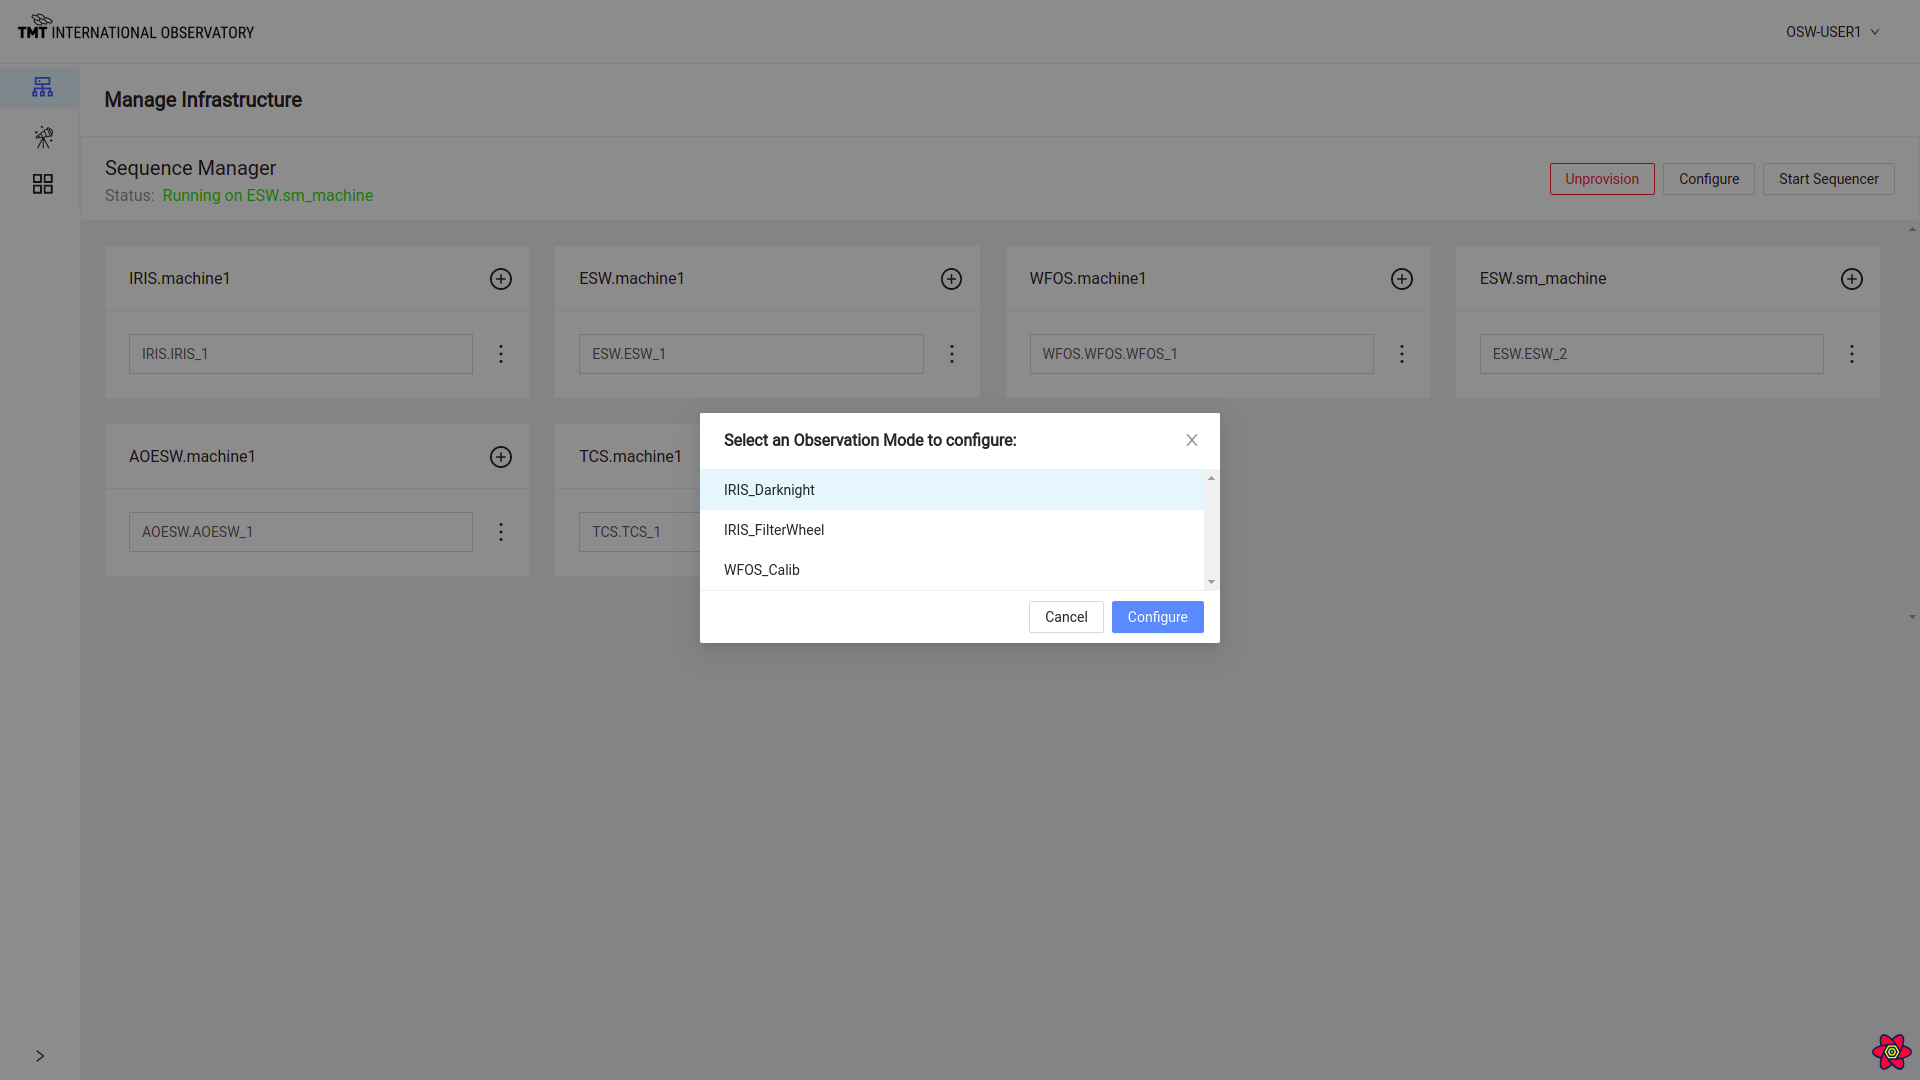
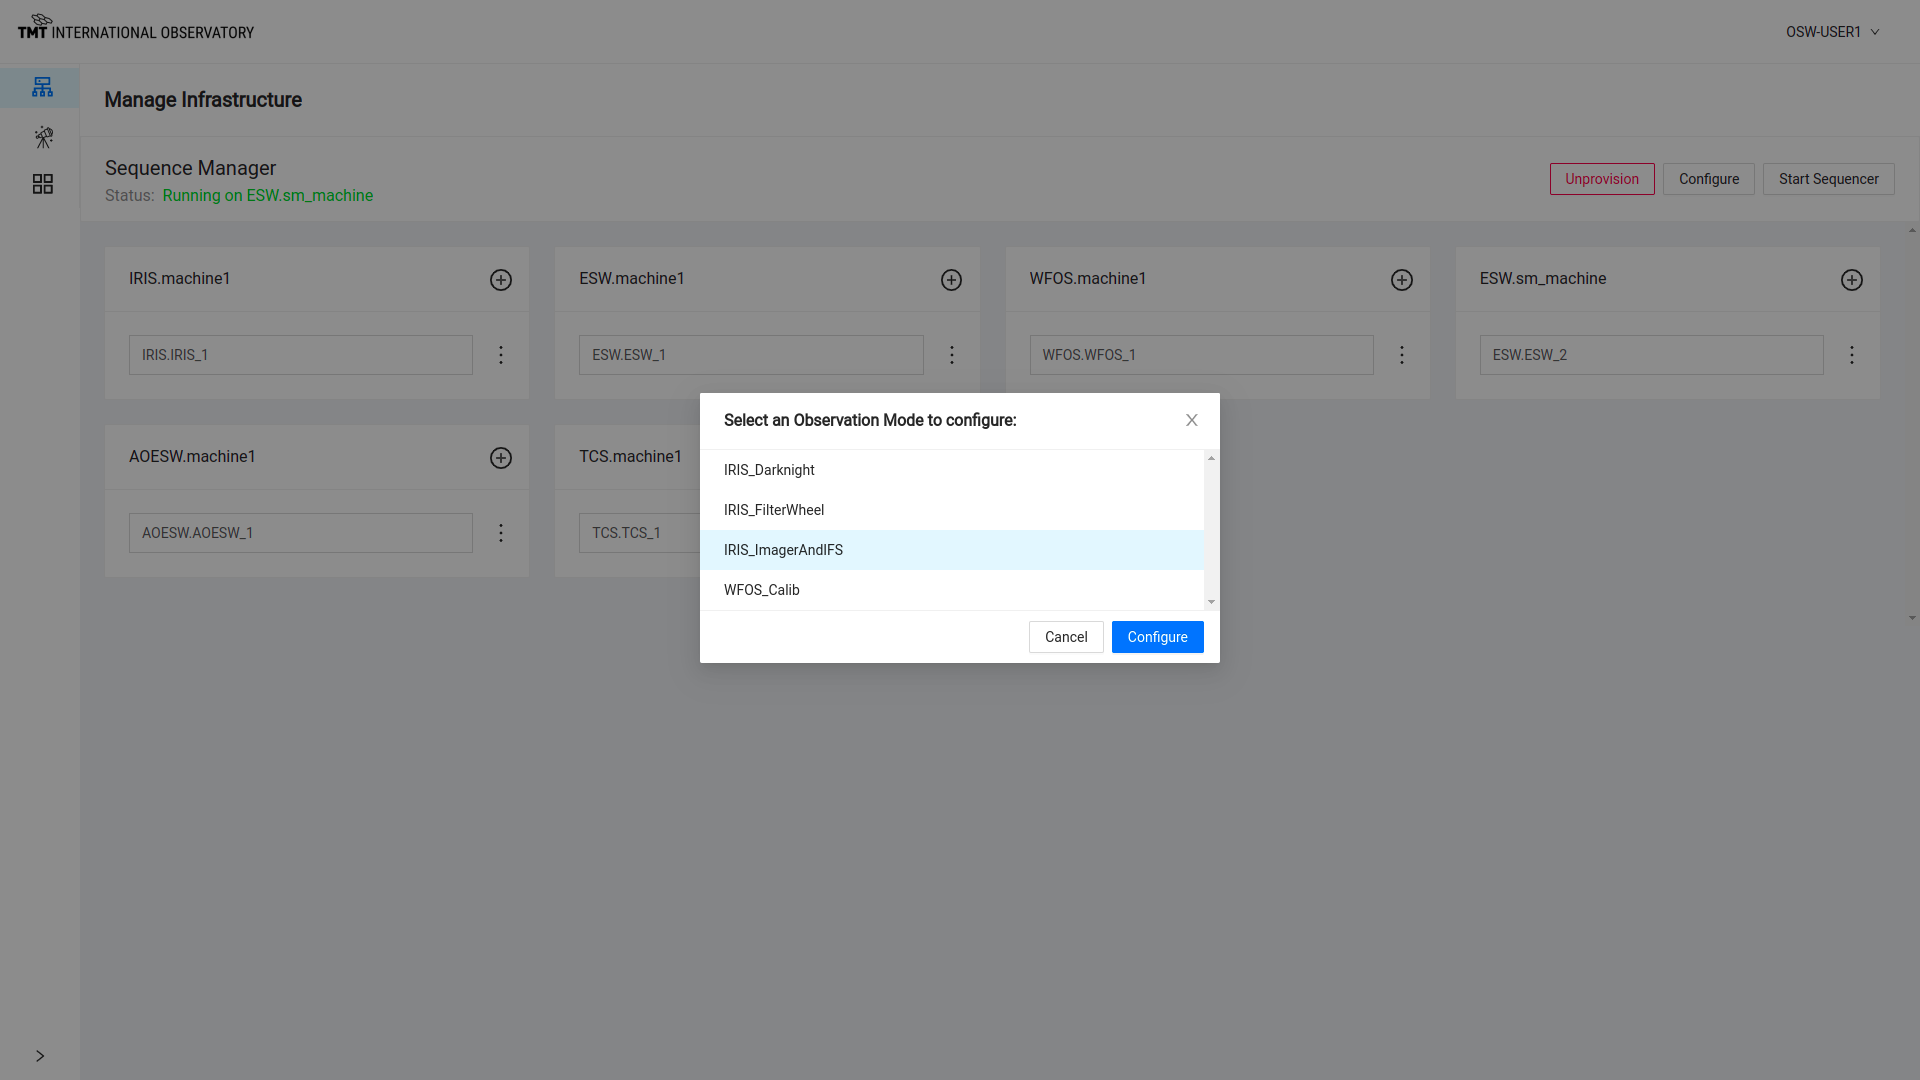
Rajalakshmi |ESW-568 - Changes to docs regarding variation for IRIS

diff --git a/README.md b/README.md
@@ -6,15 +6,16 @@ This project is a React web application.
 
 1. csw-services should be up & running.
     - it starts location service, config-service & aas server.
+
 > `./scripts/start-csw-services.sh`
 
 2. Start esw services
-    * `AgentService` along with one or more agent should be up & running. To start, run following command inside ESW sbt shell `esw-services/run start --agent --agent-service`.
+    - `AgentService` along with one or more agent should be up & running. To start, run following command inside ESW sbt shell `esw-services/run start --agent --agent-service`.
 
-    * Alternatively, to run esw-services with a simulated Sequence Manager, use
+    - Alternatively, to run esw-services with a simulated Sequence Manager, use
     `esw-services/run start --agent-service -s --simulation`
 
-    * You can use `esw-services/run start-eng-ui-services` command to start all the services and agents required to test the scripts written in repo sequncer-scripts/ui-setup branch.
+    - You can use `esw-services/run start-eng-ui-services` command to start all the services and agents required to test the scripts written in repo sequncer-scripts/ui-setup branch.
 
 > `./scripts/start-csw-services.sh` (recommended way).
 
@@ -40,10 +41,10 @@ Then, open [localhost:8080/esw-ocs-eng-ui](http://localhost:8000/esw-ocs-eng-ui/
 
 ### Required backend services/components
 
-* Location Service
-* Auth Service - user with esw-user role is required
-* Agent Service
-* One or more agents should be up and running.
+- Location Service
+- Auth Service - user with esw-user role is required
+- Agent Service
+- One or more agents should be up and running.
 
 ## Build the App for Production
 
@@ -85,12 +86,12 @@ The project has the following structure:
 ├── types
 ```
 
-* `assets`: This directory contains all the files (images, audio etc) that are used by the UI component.
-* `components`: App reusable functions / components created for this UI application.
-* `config`: This contains the application specific configurations.
-* `containers`: App reusable functions / utilities goes here.
-* `test`: This directory contains all the tests for the UI application.
-* `types`: This directory contains all the types that needs to be imported externally for UI application.
+- `assets`: This directory contains all the files (images, audio etc) that are used by the UI component.
+- `components`: App reusable functions / components created for this UI application.
+- `config`: This contains the application specific configurations.
+- `containers`: App reusable functions / utilities goes here.
+- `test`: This directory contains all the tests for the UI application.
+- `types`: This directory contains all the types that needs to be imported externally for UI application.
 
 ## Version compatibility
 
@@ -117,5 +118,5 @@ The project has the following structure:
 
 ## References
 
-* ESW-TS Library - [Link](https://github.com/tmtsoftware/esw-ts/)
-* ESW-TS Library Documentation - [Link](https://tmtsoftware.github.io/esw-ts/)
+- ESW-TS Library - [Link](https://github.com/tmtsoftware/esw-ts/)
+- ESW-TS Library Documentation - [Link](https://tmtsoftware.github.io/esw-ts/)

diff --git a/docs/src/main/ManageInfrastructure.md b/docs/src/main/ManageInfrastructure.md
@@ -69,7 +69,7 @@ Optional parameter Variation can be used to differentiate between any two sequen
 ![Write Variation](./images/ManageInfrastructure_StartSequencerWithVariationExample.png)
 
 After selecting Subsystem, ObsMode and optional Variation, the Sequencer will be started with the proper Script.
-In the following example, a Sequencer has been started for the IRIS_ImagerAndIFS obsMode on IRIS.machine1 with a variation as red.
+In the following example, a Sequencer has been started for the IRIS_ImagerAndIFS obsMode on IRIS.machine1 with a variation as IRIS_Imager.
 
 ![Started Sequencer](./images/ManageInfrastructure_StartedSequencerWithVariation.png)
 
@@ -133,7 +133,6 @@ The figure below shows that the Sequence Components were configured successfully
 
 ![ClickConfigureButton](./images/ConfiguredSuccessfully.png)
 
-This screenshot shows that the IRIS_Darknight obsMode was started with Sequencers for TCS, IRIS, and ESW. The card shows what machine
-each Sequencer is running on and what Script is running in the Sequencer.
+This screenshot shows that the IRIS_ImagerAndIFS obsMode was started with Sequencers for IRIS, and ESW with variation as `IRIS_Imager` and `IRIS_Ifs`. The card shows what machine each Sequencer is running on and what Script is running in the Sequencer.
 
 Configure can also be done from @ref[Manage Observation Page](ManageObservation.md)
